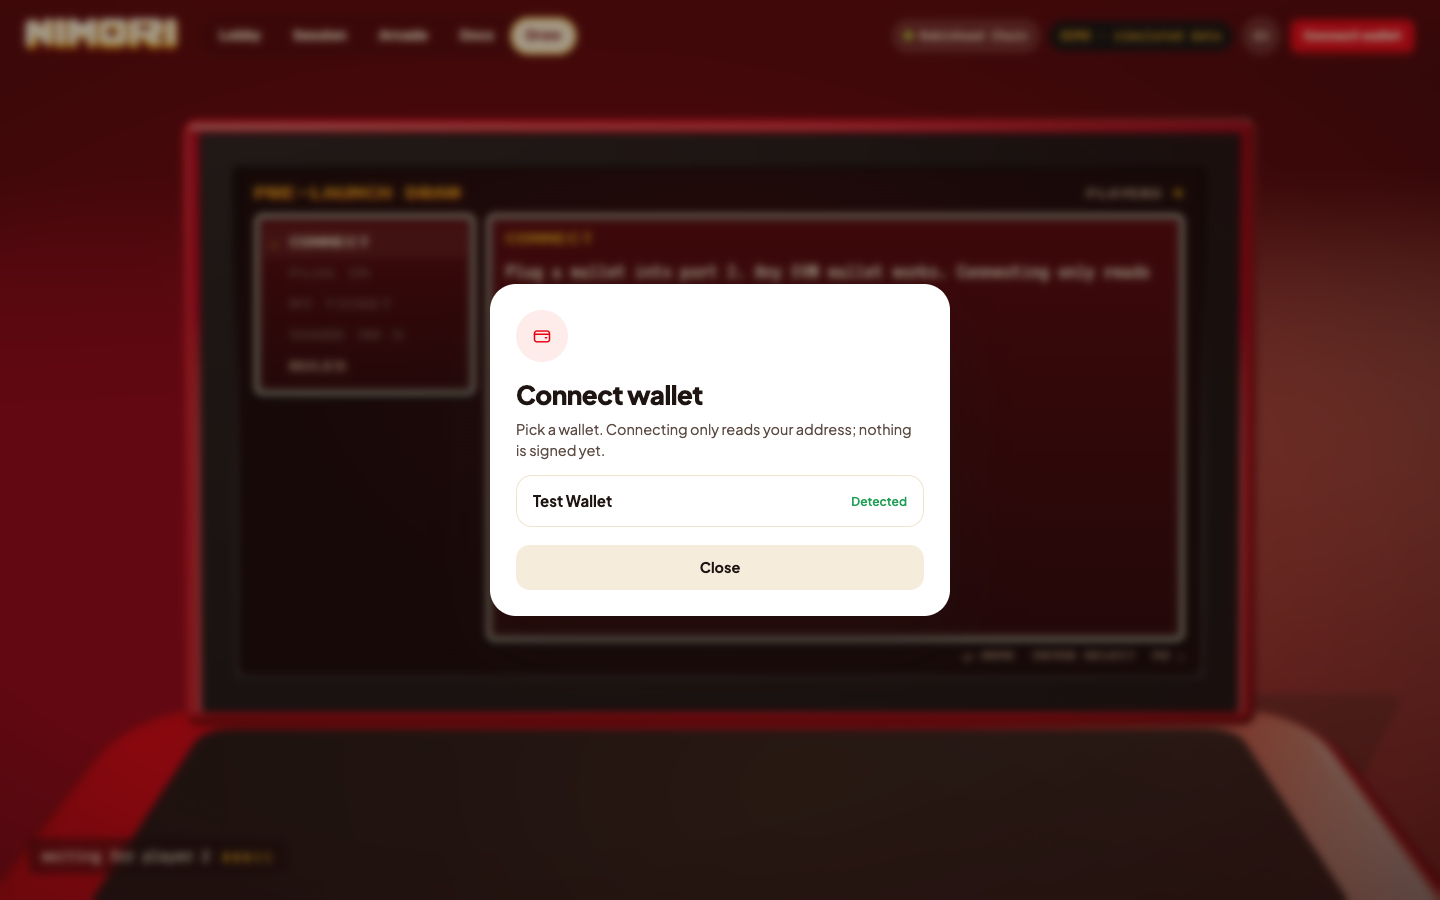
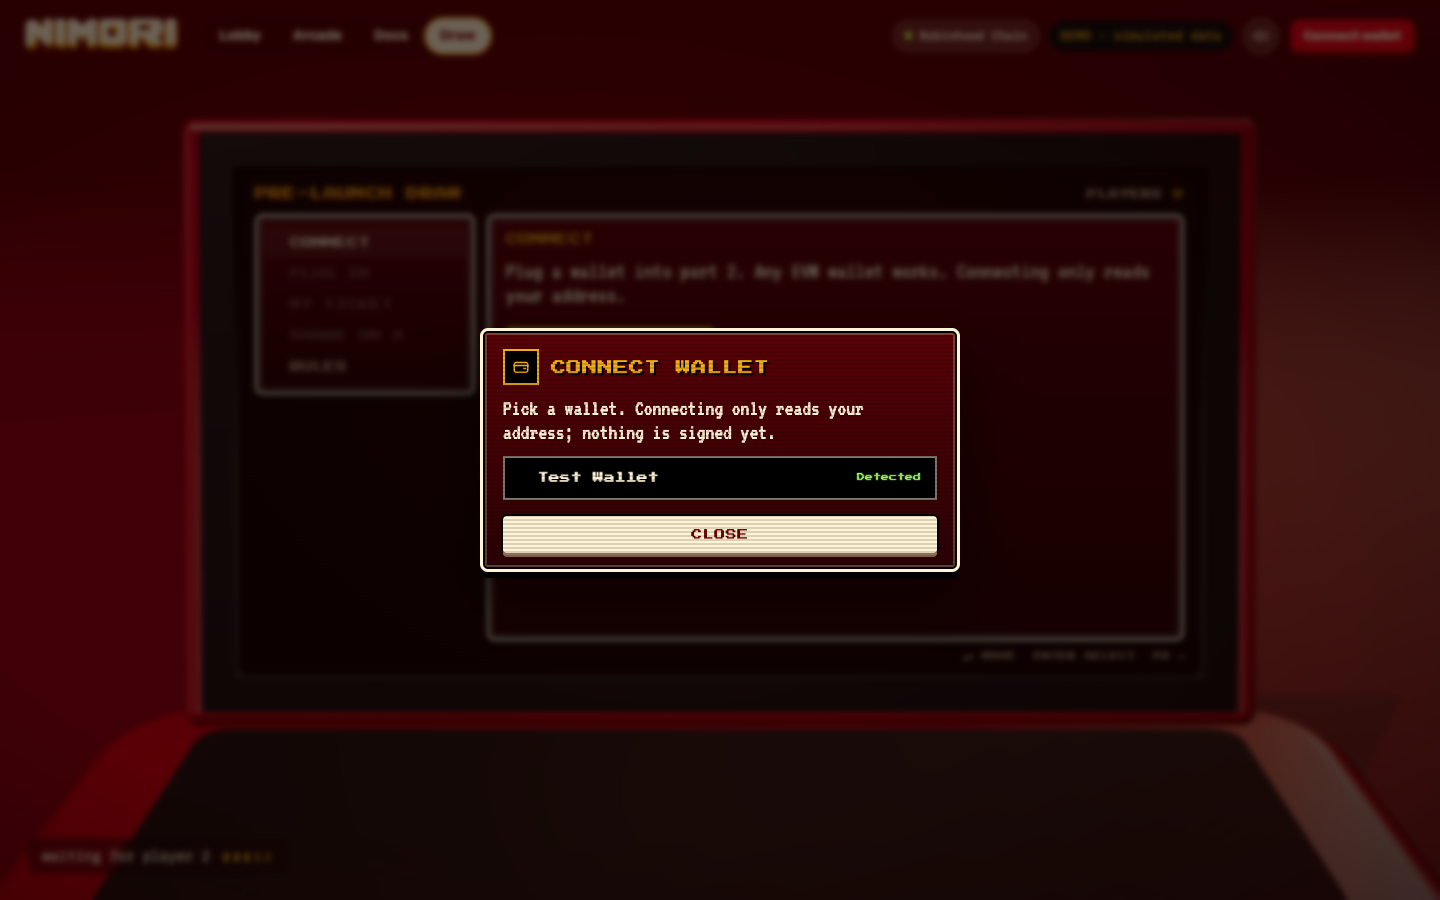
Retro arcade popups + toast; Session page removed, the session lives in the lobby (console opens there after the match)

diff --git a/js/app.js b/js/app.js
@@ -83,18 +83,18 @@ function toast(msg, kind = '') {
 let lastFocus = null;
 function openModal({ icon = I.info, tone = '', title, explain = '', rows = [], note = '', body = '', cancel = 'Cancel', confirm = null, onConfirm = null, demo = true }) {
   lastFocus = document.activeElement;
+  // retro arcade dialog: RPG window, pixel title, dotted rows, pixel buttons
   $('#modalCard').innerHTML = `
-    <div class="ico ${tone}">${icon}</div>
-    <h2 id="modalTitle">${title}</h2>
+    <div class="md-head"><span class="md-ico">${icon}</span><h2 id="modalTitle">${String(title).toUpperCase()}</h2></div>
     ${explain ? `<p class="explain">${explain}</p>` : ''}
-    ${rows.length ? `<div class="summary">${rows.map(([k, v]) => `<div class="row"><span>${k}</span><b>${v}</b></div>`).join('')}</div>` : ''}
+    ${rows.length ? `<div class="summary">${rows.map(([k, v]) => `<div class="gm-kv"><span>${k}</span><i></i><b>${v}</b></div>`).join('')}</div>` : ''}
     ${body}
-    ${note ? `<div class="note">${I.info}<span>${note}</span></div>` : ''}
+    ${note ? `<p class="md-note">! ${note}</p>` : ''}
     <div class="row2 ${confirm ? '' : 'single'}">
-      <button class="btn" type="button" data-close>${cancel}</button>
-      ${confirm ? `<button class="btn btn-primary" type="button" data-confirm>${confirm}</button>` : ''}
+      <button class="gb" type="button" data-close>${String(cancel).toUpperCase()}</button>
+      ${confirm ? `<button class="gb go" type="button" data-confirm>▶ ${String(confirm).toUpperCase()}</button>` : ''}
     </div>
-    ${demo ? '<p class="demo-note">Demo · simulated. Nothing is signed or sent.</p>' : ''}`;
+    ${demo ? '<p class="demo-note">DEMO · SIMULATED. NOTHING IS SIGNED OR SENT.</p>' : ''}`;
   $('#modal').hidden = false;
   sfx('open');
   $('[data-close]', $('#modalCard')).addEventListener('click', closeModal);
@@ -170,10 +170,7 @@ function lobby() {
       <span>${state.plugged ? 'MATCHED · save file #0142 minted (simulated)' : 'port 2 empty · waiting for player 2 ▮▮▮▯▯'}</span>
     </div>
 
-    ${state.plugged ? `
-      <button class="btn btn-ok btn-block" type="button" data-go="session">Open your save file →</button>
-      <button class="btn btn-cream btn-block" type="button" data-reset style="margin-top:10px">Reset demo</button>
-    ` : `
+    ${state.plugged ? lobbySession() : `
       <label class="field">
         <input inputmode="decimal" aria-label="Deposit amount in NIMORI" value="${state.amount}" data-amount>
         <span class="unit">NIMORI</span>
@@ -192,10 +189,37 @@ function lobby() {
   `;
 }
 
+// the session, shown in the lobby once the second cable is in
+function lobbySession() {
+  const unlocked = sessionAge() >= DAY;
+  return `
+    <div class="savefile">
+      <div class="savefile-h"><span class="slot">SAVE FILE #0142</span><span class="badge">SEAT 2P</span></div>
+      <dl class="kv">
+        <dt>Partner</dt><dd>1P · ${head()[0]}</dd>
+        <dt>Your deposit</dt><dd>${fmt(parseFloat(state.amount) || 0)} NIMORI</dd>
+        <dt>Partner deposit</dt><dd>${head()[1]}</dd>
+        <dt>Entry prices</dt><dd>$${fmt(SIM.ethUsd)} · $${SIM.tokenUsd.toFixed(2)} (sim.)</dd>
+      </dl>
+      <div style="display:flex;justify-content:space-between;font-size:12px;color:#c9a98a"><span>fee split · you 50%</span><span>partner 50%</span></div>
+      <div class="split"><i style="width:50%;background:#f3ae15"></i><i style="width:50%;background:#fef3d5"></i></div>
+      <div style="display:flex;justify-content:space-between;align-items:end;gap:10px;margin-top:12px">
+        <div><div style="color:#c9a98a;font-size:12px">time played</div><div class="clock" data-clock>${clockText()}</div></div>
+        <div style="text-align:right;color:#c9a98a;font-size:12px">${unlocked ? 'unplug is free now' : 'unplug unlocks<br>at 24:00:00'}</div>
+      </div>
+    </div>
+    <div class="actions">
+      ${unlocked ? '<button class="btn" type="button" data-unplug>Unplug</button>' : '<button class="btn" type="button" data-ragequit>Rage quit (−1%)</button>'}
+      <button class="btn btn-cream" type="button" data-sell>Sell seat</button>
+    </div>
+    ${unlocked ? '' : '<p style="margin:10px 0 0;text-align:center"><button class="linkbtn" type="button" data-skip>demo: skip to 24 h</button></p>'}
+    <button class="btn btn-cream btn-block" type="button" data-reset style="margin-top:10px">Reset demo</button>`;
+}
+
 // ---------- retro game menu (used by every page drawn on the console screen) ----------
 // Left: a menu list with a blinking cursor. Right: a dialog window for the selected entry.
 // Arrow keys move, Enter selects, mouse works too. An entry with `action` runs it when chosen again or on Enter.
-const MENU_SEL = { session: 0, arcade: 0, docs: 0, draw: 0 };
+const MENU_SEL = { arcade: 0, docs: 0, draw: 0 };
 const MENUS = {};
 const esc = (s) => String(s).replace(/[&<>"]/g, (c) => ({ '&': '&amp;', '<': '&lt;', '>': '&gt;', '"': '&quot;' }[c]));
 const dots = (k, v) => `<div class="gm-kv"><span>${k}</span><i></i><b>${v}</b></div>`;
@@ -223,44 +247,6 @@ function gameMenu(route, { title, status = '', items }) {
     </div>`;
 }
 
-function session() {
-  if (!state.plugged) {
-    return gameMenu('session', {
-      title: 'SESSION',
-      status: 'NO SAVE FILE',
-      items: [
-        { label: 'PLUG IN', body: () => `<p class="gm-text">Port 2 is empty. You bring ${fmt(parseFloat(state.amount) || 0)} NIMORI on ${DIFF[state.difficulty].label.toUpperCase()}. The head of the 1P queue brings ${head()[1]}.</p>${gbtn('▶ PLUG IN AS 2P', 'data-plug', 'go')}`, action: confirmPlug },
-        { label: 'LOBBY', body: () => `<p class="gm-text">Change the amount or the difficulty before you plug in.</p>${gbtn('▶ GO TO LOBBY', 'data-go="lobby"')}`, action: () => { location.hash = '#/lobby'; } },
-        { label: 'MOVER RULE', body: moverRule },
-      ],
-    });
-  }
-  const unlocked = sessionAge() >= DAY;
-  return gameMenu('session', {
-    title: 'SAVE FILE #0142',
-    status: `TIME <b data-clock>${clockText()}</b>`,
-    items: [
-      { label: 'SEAT 2P', body: () => `
-        ${dots('SIDE', 'NIMORI · 2P')}
-        ${dots('PARTNER', '1P ' + head()[0])}
-        ${dots('YOUR DEPOSIT', fmt(parseFloat(state.amount) || 0) + ' NIMORI')}
-        ${dots('PARTNER DEPOSIT', head()[1])}
-        ${dots('ENTRY ETH', '$' + fmt(SIM.ethUsd) + ' (SIM)')}
-        ${dots('ENTRY NIMORI', '$' + SIM.tokenUsd.toFixed(2) + ' (SIM)')}
-        ${dots('RANGE', DIFF[state.difficulty].label.toUpperCase())}
-        <p class="gm-text small">Your seat is an ERC-721. Sell it and the buyer inherits the session.</p>` },
-      { label: 'FEE SPLIT', body: () => `
-        <div class="gm-bar"><i style="width:50%"></i></div>
-        ${dots('YOU (2P)', '50%')}${dots('PARTNER (1P)', '50%')}
-        <p class="gm-text small">10% of trading fees go to Arcade stakers first. The scarce side can earn a seat bonus, up to 70/30.</p>` },
-      unlocked
-        ? { label: 'UNPLUG', body: () => `<p class="gm-text">24 h played. Unplugging is free. The mover rule settles both seats.</p>${gbtn('▶ UNPLUG', 'data-unplug', 'go')}`, action: () => openExit(false) }
-        : { label: 'RAGE QUIT', body: () => `<p class="gm-text">Unplug unlocks at 24:00:00. Leaving now costs 1% of your seat, paid to your partner.</p>${gbtn('▶ RAGE QUIT (−1%)', 'data-ragequit', 'warn')}<p class="gm-text small"><button class="gm-link" type="button" data-skip>DEMO: SKIP TO 24 H</button></p>`, action: () => openExit(true) },
-      { label: 'SELL SEAT', body: () => `<p class="gm-text">List your save file on any NFT marketplace. The buyer takes your seat, your share of fees and your side of the mover rule.</p>${gbtn('▶ SELL SEAT', 'data-sell')}` },
-      { label: 'MOVER RULE', body: moverRule },
-    ],
-  });
-}
 function moverRule() {
   return `
     <ol class="gm-list">
@@ -474,14 +460,14 @@ W.onChange(() => {
   if (routeName() !== 'draw') render();
 });
 
-const ROUTES = { lobby, session, arcade, docs, draw };
+const ROUTES = { lobby, arcade, docs, draw };
 
 // ---------- console screen content (drawn inside the 3D scene, never an HTML overlay) ----------
 function screenFor(route) {
   if (route === 'draw') return DRAW.entry && DRAW.rolled
     ? { title: 'PRE-LAUNCH DRAW', big: DRAW.entry.ticket.code, lines: ['YOUR TICKET', '1 WALLET · 1 TICKET'] }
     : { title: 'PRE-LAUNCH DRAW', big: 'PLUG IN', lines: ['GET A TICKET', `${DRAW.players ?? '—'} PLAYERS PLUGGED IN`] };
-  if (route === 'session') return { title: 'SAVE FILE #0142', big: clockText(), lines: ['TIME PLAYED', `FEE SPLIT 50/50 · ${DIFF[state.difficulty].label.toUpperCase()}`] };
+  if (route === 'lobby') return { title: 'SAVE FILE #0142', big: clockText(), lines: ['TIME PLAYED', `FEE SPLIT 50/50 · ${DIFF[state.difficulty].label.toUpperCase()}`] };
   if (route === 'arcade') return { title: 'ARCADE', big: STAKE.staked ? fmt(STAKE.staked) : 'INSERT COIN', lines: [STAKE.staked ? 'NIMORI STAKED' : 'STAKE $NIMORI', `PRIORITY PASS ${STAKE.staked ? 'ON' : 'OFF'}`] };
   return { title: 'HOW TO PLAY', big: '1P + 2P', lines: ['ETH + TOKEN = ONE POSITION', 'THE MOVER CARRIES THE IL'] };
 }
@@ -495,21 +481,23 @@ const crtBody = $('[data-crt-body]', crtEl);
 let clockTimer = 0;
 let wasDesktop = window.innerWidth >= 1000;
 const routeName = () => {
-  const name = (location.hash.replace(/^#\/?/, '').split('/')[0]) || 'lobby';
+  let name = (location.hash.replace(/^#\/?/, '').split('/')[0]) || 'lobby';
+  if (name === 'session') name = 'lobby'; // the session now lives in the lobby
   return ROUTES[name] ? name : 'lobby';
 };
-const lidOpenFor = (route) => route === 'draw' || route === 'arcade' || route === 'docs' || (route === 'session' && state.plugged);
+// the lobby opens the console too once player 2 is in: the screen then shows the live session clock
+const lidOpenFor = (route) => route === 'draw' || route === 'arcade' || route === 'docs' || (route === 'lobby' && state.plugged);
 
 let wasOpen = false;
 function render() {
   const route = routeName();
   const desktop = window.innerWidth >= 1000;
   const open = !!scene && lidOpenFor(route);
-  const onScreen = open && desktop;
+  const onScreen = open && desktop && route !== 'lobby';
   document.body.dataset.mode = onScreen ? 'screen' : 'panel';
   if (open !== wasOpen) { sfx(open ? 'lid' : 'close'); wasOpen = open; }
   scene?.setLid(open);
-  scene?.setView(open ? 'screen' : route);
+  scene?.setView(route === 'lobby' ? (open ? 'lobbyOpen' : 'lobby') : open ? 'screen' : route);
   scene?.setDifficulty(state.difficulty);
   scene?.setOverlay(onScreen);
   if (open) scene?.setScreen(onScreen ? {} : screenFor(route));
@@ -532,7 +520,7 @@ function render() {
   if (state.plugged) {
     clockTimer = setInterval(() => {
       $$('[data-clock]').forEach((el) => { el.textContent = clockText(); });
-      if (route === 'session' && !onScreen && open) scene?.setScreen(screenFor(route));
+      if (open && !onScreen) scene?.setScreen(screenFor(route));
     }, 1000);
   }
 }
@@ -714,7 +702,7 @@ function plugIn() {
     setTimeout(() => {
       m.classList.remove('show');
       // the second cable is in: the lid opens on the save file
-      if (routeName() === 'session') render(); else location.hash = '#/session';
+      if (routeName() === 'lobby') render(); else location.hash = '#/lobby';
     }, 1300);
   }, scene ? 1500 : 200);
 }

diff --git a/css/app.css b/css/app.css
@@ -580,3 +580,38 @@ body[data-mode="screen"] .panel { display: none; }
   .gm-item { font-size: 10px; padding: 10px 6px 10px 22px; }
   .gm-foot span:not(:last-child) { display: none; }
 }
+
+/* ============ retro arcade popups + toast ============ */
+.modal { background: rgba(10,0,0,.6); backdrop-filter: blur(3px); }
+.modal-card {
+  width: min(480px, 100%); padding: 18px 20px 16px; border-radius: 8px; color: var(--gm-ink); font-family: var(--crt);
+  background: linear-gradient(180deg, var(--gm-win), var(--gm-win2));
+  border: 3px solid var(--gm-ink); box-shadow: inset 0 0 0 2px #000, inset 0 0 0 4px rgba(254,243,213,.25), 0 6px 0 #000, 0 30px 60px rgba(0,0,0,.5);
+  animation: md-pop .16s steps(3, end);
+  position: relative;
+}
+.modal-card::after { content: ""; position: absolute; inset: 0; pointer-events: none; border-radius: 6px; background: repeating-linear-gradient(0deg, rgba(0,0,0,.14) 0 2px, transparent 2px 4px); }
+.md-head { display: flex; align-items: center; gap: 12px; margin-bottom: 12px; }
+.md-ico { width: 36px; height: 36px; display: grid; place-items: center; background: #000; border: 2px solid var(--amber); color: var(--amber); flex: none; }
+.md-ico svg { width: 18px; height: 18px; fill: none; stroke: currentColor; stroke-width: 2; stroke-linecap: square; stroke-linejoin: miter; }
+.modal-card h2 { margin: 0; font-family: var(--px); font-weight: 400; font-size: 15px; line-height: 1.3; letter-spacing: .04em; color: var(--amber); text-shadow: 2px 2px 0 #000; }
+.modal-card .explain { margin: 0 0 12px; font-size: 22px; line-height: 1.05; color: var(--gm-ink); }
+.modal-card .summary { border: 2px solid rgba(254,243,213,.35); border-radius: 0; padding: 8px 12px; background: rgba(0,0,0,.35); }
+.modal-card .summary .gm-kv { font-size: 21px; }
+.md-note { margin: 12px 0 0; padding: 8px 10px; font-size: 20px; line-height: 1.05; color: #ffd9a0; border: 2px dashed rgba(243,174,21,.6); }
+.modal-card .row2 { display: grid; grid-template-columns: repeat(2, minmax(0, 1fr)); gap: 12px; margin-top: 16px; }
+.modal-card .row2.single { grid-template-columns: minmax(0, 1fr); }
+.modal-card .row2 .gb { width: 100%; margin: 0; padding: 13px 8px; }
+.modal-card .demo-note { margin: 12px 0 0; text-align: center; font-family: var(--px); font-size: 8px; letter-spacing: .06em; color: var(--gm-dim); }
+.modal-card .wallets { display: grid; gap: 8px; }
+.modal-card .wallets button, .modal-card .wallets .wallet-opt {
+  display: flex; align-items: center; gap: 12px; padding: 12px 14px; border-radius: 0; cursor: pointer;
+  background: #000; border: 2px solid rgba(254,243,213,.5); color: var(--gm-ink); font-family: var(--px); font-size: 11px;
+}
+.modal-card .wallets .wallet-opt:hover, .modal-card .wallets .wallet-opt:focus-visible { border-color: var(--amber); color: var(--amber); outline: none; }
+.modal-card .wallets .wallet-opt::before { content: "▶"; color: var(--amber); visibility: hidden; }
+.modal-card .wallets .wallet-opt:hover::before, .modal-card .wallets .wallet-opt:focus-visible::before { visibility: visible; }
+.modal-card .wallets small { margin-left: auto; font-size: 8px; color: #9dff6a; }
+.modal-card .wallets img { width: 24px; height: 24px; image-rendering: pixelated; }
+@keyframes md-pop { from { transform: scale(.92); opacity: 0; } }
+.toast { border-radius: 0; background: #000; color: var(--gm-ink); font-family: var(--px); font-size: 10px; line-height: 1.6; letter-spacing: .03em; border: 2px solid var(--gm-ink); box-shadow: 0 0 0 2px #000, 0 6px 0 #000; }

diff --git a/js/scene.js b/js/scene.js
@@ -615,6 +615,8 @@ export function createScene(mount, overlayEl = null, { onBootStart = null, onBoo
   const VIEWS = {
     lobby: [new THREE.Vector3(2.4, 2.9, 10.2), new THREE.Vector3(0.1, 0.28, 0.8)],
     session: [new THREE.Vector3(-1.6, 7.6, 7.4), new THREE.Vector3(0.0, 0.5, 0.3)],
+    // lobby after the match: lid open, a bit higher so the screen and both cables are in frame
+    lobbyOpen: [new THREE.Vector3(1.6, 4.4, 10.4), new THREE.Vector3(-0.15, 1.05, -0.2)],
     // lid open, straight at the screen (screen centre is about (0, 2.0, -1.32), normal (0, .26, .97))
     screen: [new THREE.Vector3(0.0, 3.62, 4.75), new THREE.Vector3(0.0, 1.9, -1.32)],
     docs: [new THREE.Vector3(-7.2, 4.6, 9.0), new THREE.Vector3(-0.2, 0.4, 0.6)],

diff --git a/index.html b/index.html
@@ -25,7 +25,6 @@
     <a class="wordmark" href="#/lobby" aria-label="NIMORI home"><img src="img/wordmark.webp" alt="NIMORI" width="637" height="156"></a>
     <nav class="tabs" aria-label="Screens">
       <a href="#/lobby" data-route="lobby">Lobby</a>
-      <a href="#/session" data-route="session">Session</a>
       <a href="#/arcade" data-route="arcade">Arcade</a>
       <a href="#/docs" data-route="docs">Docs</a>
       <a href="#/draw" data-route="draw" class="tab-draw">Draw</a>
